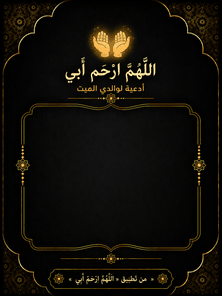
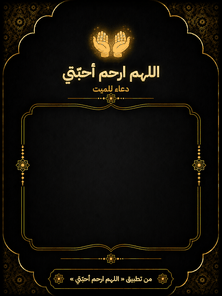
feat: rename app branding to Allahumma Irham Ahibbati
Global app name becomes « اللهم ارحم أحبّتي » with the descriptor
« دعاء للميت ». Per-relative personalisation (PersonType,
DuaPersonalizer, duas.json) is unchanged, and technical identifiers
(com.joumane.allahomairhamabi, /allahomairhamabi/) are untouched.

- AppBranding: single source for app name, descriptor and share
  attribution suffix (Home, DuaReadScreen, Settings share text)
- Android app_name, neutral reminder toasts, pubspec description
- Premium share templates and thumbnails: title, subtitle and footer
  redrawn; dimensions and duaTextZone unchanged
- Branding guard tests (test/app_branding_test.dart)
- Living docs: ETAT_CONSOLIDE_UI_UX, identity spec

diff --git a/Spec Identite Rahma.dc.html b/Spec Identite Rahma.dc.html
@@ -19,9 +19,9 @@ a{color:#0F7A45;}a:hover{color:#0A5C34;}
 <main style="max-width:940px;margin:0 auto;padding:56px 28px 96px;font-family:'IBM Plex Sans',sans-serif;font-size:15px;line-height:1.6;display:flex;flex-direction:column;gap:56px;">
 
 <header style="display:flex;flex-direction:column;gap:14px;border-bottom:1px solid #DDD5C0;padding-bottom:32px;">
-  <div style="font-family:'IBM Plex Mono',monospace;font-size:12px;letter-spacing:.08em;text-transform:uppercase;color:#5A6259;">Rahma · Spécification identité v1.0 · 28/09/2026</div>
+  <div style="font-family:'IBM Plex Mono',monospace;font-size:12px;letter-spacing:.08em;text-transform:uppercase;color:#5A6259;">Rahma · Spécification identité v1.1 · 30/09/2026 (nom : LOT RENAMING)</div>
   <h1 style="margin:0;font-size:36px;line-height:1.15;font-weight:600;letter-spacing:-.01em;text-wrap:balance;">Icône, logo et splash — analyse de la référence et spécification</h1>
-  <div style="font-family:'Lateef',serif;font-size:40px;line-height:1.2;color:#0F7A45;direction:rtl;text-align:right;">اللهم ارحم أبي</div>
+  <div style="font-family:'Lateef',serif;font-size:40px;line-height:1.2;color:#0F7A45;direction:rtl;text-align:right;">اللهم ارحم أحبّتي</div>
   <p style="margin:0;max-width:680px;color:#3C463F;text-wrap:pretty;">Critère n°1 : un nouvel utilisateur comprend immédiatement « deux mains levées pour faire une douaa ». Aucune nouvelle métaphore : la silhouette de la référence est conservée, puis corrigée pour la lisibilité et les contraintes des plateformes.</p>
 </header>
 
@@ -254,7 +254,7 @@ a{color:#0F7A45;}a:hover{color:#0A5C34;}
     <li>Déclinaisons : Émeraude #0F7A45 (fonds clairs) · Ivoire #F4EDD8 (fonds verts / sombres, p. ex. #0A5C34) · Noir #1F2A23 (impression 1 couleur).</li>
     <li>Zone de protection : 0,25 W sur les quatre côtés. Taille minimale : 24 px (version Petite taille sous 64 px).</li>
     <li>Interdits : recolorer en dégradé, contour, ombre, rotation, déformation, placer sur une photo chargée.</li>
-    <li>Lockup (site, partage) : logo + « اللهم ارحم أبي » en Lateef, à droite (RTL), hauteur de texte = 0,35 H, espacement 0,2 W.</li>
+    <li>Lockup (site, partage) : logo + « اللهم ارحم أحبّتي » en Lateef, à droite (RTL), hauteur de texte = 0,35 H, espacement 0,2 W.</li>
   </ul>
 </section>
 
@@ -263,7 +263,7 @@ a{color:#0F7A45;}a:hover{color:#0A5C34;}
   <p style="margin:0;padding:14px 16px;background:#E6EDDA;color:#1F2A23;">Contrainte : depuis Android 12, le splash système n'accepte qu'une icône centrée (288 dp, contenu dans un cercle de 192 dp) sur une couleur unie. Paysage, architecture et texte ne peuvent pas y figurer. Le splash se fait donc en deux temps.</p>
   <div style="display:grid;grid-template-columns:repeat(auto-fit,minmax(260px,1fr));gap:16px;">
     <div style="border:1px solid #DDD5C0;padding:14px;display:flex;flex-direction:column;gap:6px;background:#FFFDF7;"><strong>C1 · Splash système</strong><span style="font-size:14px;">Fond #F4EDD8, logo Émeraude (splash_logo.png, W = 52 %). Identique à l'icône : transition sans rupture. Mode sombre : fond #0A5C34, logo Ivoire.</span></div>
-    <div style="border:1px solid #DDD5C0;padding:14px;display:flex;flex-direction:column;gap:6px;background:#FFFDF7;"><strong>C2 · Écran de marque Flutter</strong><span style="font-size:14px;">1,2 à 1,8 s, puis fondu vers l'accueil. Mains W = 44 % de la largeur écran, centrées à 42 % de la hauteur. Sous les mains : « اللهم ارحم أبي » en Lateef, #0F7A45, 44 sp. Décor en bas du tiers inférieur : ligne d'horizon et arcs très discrets en #E6EDDA, filet or #B8860B à 40 % d'opacité maximum. Le décor ne dépasse jamais la base des mains.</span></div>
+    <div style="border:1px solid #DDD5C0;padding:14px;display:flex;flex-direction:column;gap:6px;background:#FFFDF7;"><strong>C2 · Écran de marque Flutter</strong><span style="font-size:14px;">1,2 à 1,8 s, puis fondu vers l'accueil. Mains W = 44 % de la largeur écran, centrées à 42 % de la hauteur. Sous les mains : « اللهم ارحم أحبّتي » en Lateef, #0F7A45, 44 sp. Décor en bas du tiers inférieur : ligne d'horizon et arcs très discrets en #E6EDDA, filet or #B8860B à 40 % d'opacité maximum. Le décor ne dépasse jamais la base des mains.</span></div>
   </div>
   <pre style="margin:0;padding:16px;background:#1F2A23;color:#F4EDD8;font-family:'IBM Plex Mono',monospace;font-size:13px;line-height:1.55;overflow:auto;">flutter_native_splash:
   color: "#F4EDD8"

diff --git a/test/app_branding_test.dart b/test/app_branding_test.dart
@@ -1,0 +1,120 @@
+// LOT RENAMING — garde-fous du nom commercial « اللهم ارحم أحبّتي ».
+//
+// Détecte les oublis futurs sur les surfaces de branding (Home, signature
+// de partage, texte « مشاركة التطبيق », nom Android) sans toucher à la
+// personnalisation par proche, qui doit continuer à produire
+// « اللهم ارحم أبي / أمي … » dans le texte des douʿās.
+import 'dart:io';
+
+import 'package:flutter/material.dart';
+import 'package:flutter_test/flutter_test.dart';
+import 'package:shared_preferences/shared_preferences.dart';
+
+import 'package:test_1/app_branding.dart';
+import 'package:test_1/dua_personalizer.dart';
+import 'package:test_1/home_screen.dart';
+import 'package:test_1/settings_screen.dart';
+import 'package:test_1/widgets/app_bar.dart';
+
+/// Retire le tashkīl et le tatweel pour comparer sans tenir compte des
+/// diacritiques (« اللَّهُمَّ ارْحَمْ أَبِي » == « اللهم ارحم أبي »).
+String _stripDiacritics(String s) =>
+    s.replaceAll(RegExp('[ً-ْٰـ]'), '');
+
+final _oldBrand = RegExp(r'ارحم\s+[أاإ]بي');
+
+void main() {
+  group('AppBranding', () {
+    test('nom, descripteur et signature officiels', () {
+      expect(AppBranding.appName, 'اللهم ارحم أحبّتي');
+      expect(AppBranding.descriptor, 'دعاء للميت');
+      expect(AppBranding.shareAttributionSuffix,
+          '\n\n— من تطبيق اللهم ارحم أحبّتي —');
+    });
+
+    test('« مشاركة التطبيق » : nouveau nom, descripteur, lien Play inchangé',
+        () {
+      const text = SettingsScreen.shareAppText;
+      expect(text, startsWith('${AppBranding.appName}\n'));
+      expect(text, contains(AppBranding.descriptor));
+      expect(text, isNot(contains('لوالدي')));
+      expect(
+        text,
+        contains(
+            'https://play.google.com/store/apps/details?id=com.joumane.allahomairhamabi'),
+      );
+    });
+  });
+
+  testWidgets('titre du Home = nom commercial', (tester) async {
+    SharedPreferences.setMockInitialValues({});
+
+    await tester.pumpWidget(const MaterialApp(home: HomeScreen()));
+    await tester.pumpAndSettle();
+
+    final appBar = tester.widget<AppTopBar>(find.byType(AppTopBar));
+    expect(appBar.title, AppBranding.appName);
+  });
+
+  group('Android', () {
+    test('app_name = nom commercial, référencé par le manifeste', () {
+      final strings =
+          File('android/app/src/main/res/values/strings.xml').readAsStringSync();
+      expect(
+        strings,
+        contains('<string name="app_name">${AppBranding.appName}</string>'),
+      );
+
+      final manifest =
+          File('android/app/src/main/AndroidManifest.xml').readAsStringSync();
+      expect(manifest, contains('android:label="@string/app_name"'));
+      // Identifiant technique historique : inchangé par le rebranding.
+      expect(manifest, contains('package="com.joumane.allahomairhamabi"'));
+    });
+  });
+
+  test('ancien nom absent du code applicatif (hors douʿās personnalisées)', () {
+    final sources = Directory('lib')
+        .listSync(recursive: true)
+        .whereType<File>()
+        .where((f) => f.path.endsWith('.dart'))
+        .toList()
+      ..add(File('android/app/src/main/res/values/strings.xml'));
+
+    final offenders = <String>[
+      for (final f in sources)
+        if (_oldBrand.hasMatch(_stripDiacritics(f.readAsStringSync()))) f.path,
+    ];
+    expect(offenders, isEmpty);
+  });
+
+  group('personnalisation préservée', () {
+    test('père et mère restent personnalisés', () {
+      expect(
+        DuaPersonalizer.personalize(
+            'اللهم ارحم أبي', 'father', {'father': 'Youssef'}),
+        'اللهم ارحم أبي Youssef',
+      );
+      expect(
+        DuaPersonalizer.personalize(
+            'اللهم ارحم أمي', 'mother', {'mother': 'Fatima'}),
+        'اللهم ارحم أمي Fatima',
+      );
+    });
+
+    test('la signature n\'est jamais réécrite par la personnalisation', () {
+      const keys = [
+        'father', 'mother', 'parents', 'grandfather', 'grandmother',
+        'brother', 'sister', 'son', 'daughter', 'husband', 'wife',
+      ];
+      for (final k in keys) {
+        expect(
+          DuaPersonalizer.personalize(
+              AppBranding.shareAttributionSuffix, k, {k: 'X'}),
+          AppBranding.shareAttributionSuffix,
+          reason: k,
+        );
+      }
+    });
+  });
+}

diff --git a/lib/settings_screen.dart b/lib/settings_screen.dart
@@ -4,6 +4,7 @@ import 'package:provider/provider.dart';
 import 'package:share_plus/share_plus.dart';
 import 'package:url_launcher/url_launcher.dart';
 
+import 'app_branding.dart';
 import 'monetization/ad_free_hour_entry.dart';
 import 'monetization/privacy_options_entry.dart';
 import 'monetization/rewarded_wording.dart';
@@ -28,22 +29,23 @@ import 'widgets/rewarded_confirmation_sheet.dart';
 class SettingsScreen extends StatefulWidget {
   const SettingsScreen({super.key});
 
+  /// Texte de partage validé (LOT 3.O — « مشاركة التطبيق »). Mécanisme natif
+  /// uniquement (`Share.share`), aucune logique spécifique à une app tierce
+  /// (remplace l'ancienne intégration WhatsApp de `home_screen.dart`,
+  /// supprimée par ce lot). Exposé pour `test/app_branding_test.dart`.
+  @visibleForTesting
+  static const shareAppText =
+      '${AppBranding.appName}\n'
+      '${AppBranding.descriptor} 🤍\n'
+      '\n'
+      'شارك الأجر مع من تحب:\n'
+      'https://play.google.com/store/apps/details?id=com.joumane.allahomairhamabi';
+
   @override
   State<SettingsScreen> createState() => _SettingsScreenState();
 }
 
 class _SettingsScreenState extends State<SettingsScreen> {
-  /// Texte de partage validé (LOT 3.O — « مشاركة التطبيق »). Mécanisme natif
-  /// uniquement (`Share.share`), aucune logique spécifique à une app tierce
-  /// (remplace l'ancienne intégration WhatsApp de `home_screen.dart`,
-  /// supprimée par ce lot).
-  static const _shareAppText =
-      'اللَّهُمَّ ارْحَمْ أَبِي\n'
-      'تطبيق أدعية لوالدي الميت 🤍\n'
-      '\n'
-      'شارك الأجر مع من تحب:\n'
-      'https://play.google.com/store/apps/details?id=com.joumane.allahomairhamabi';
-
   String _selectedTheme = 'system';
 
   bool _enableMorning = true;
@@ -278,7 +280,7 @@ class _SettingsScreenState extends State<SettingsScreen> {
   /// dou'a — `home_screen.dart`, `dua_read_screen.dart`), aucune dépendance
   /// nouvelle, aucune logique propre à une app tierce.
   Future<void> _shareApp() async {
-    await Share.share(_shareAppText);
+    await Share.share(SettingsScreen.shareAppText);
   }
 
   /// « خيارات الخصوصية » (LOT 5.E) — ouvre le formulaire UMP d'options de

diff --git a/lib/home_screen.dart b/lib/home_screen.dart
@@ -7,6 +7,7 @@ import 'package:flutter/services.dart'; // Clipboard + Haptics
 import 'package:flutter/rendering.dart'; // RenderRepaintBoundary
 import 'package:share_plus/share_plus.dart';
 
+import 'app_branding.dart';
 import 'dua_repository.dart';
 import 'models/dua.dart';
 import 'monetization/interstitial_ad_controller.dart';
@@ -59,8 +60,7 @@ class _HomeScreenState extends State<HomeScreen> with TickerProviderStateMixin {
   String? _emptyStateMessage;
 
   //Suffixe des textes copiés ou partagés
-  static const String _ATTR_SUFFIX_AR =
-      '\n\n— من تطبيق اللَّهُمَّ ارْحَمْ أَبِي —';
+  static const String _ATTR_SUFFIX_AR = AppBranding.shareAttributionSuffix;
 
   // ===== Filtres =====
   // زيارة القبر a son propre écran dédié (LOT 3.F) — plus jamais atteint via
@@ -1384,7 +1384,7 @@ class _HomeScreenState extends State<HomeScreen> with TickerProviderStateMixin {
         children: [
           Scaffold(
             appBar: AppTopBar(
-              title: 'اللَّهُمَّ ارْحَمْ أَبِي',
+              title: AppBranding.appName,
               height: 56,
               titleStyle:
                   AppTypography.display.copyWith(fontSize: 25, color: appBarForeground),

diff --git a/lib/app_branding.dart b/lib/app_branding.dart
@@ -1,0 +1,23 @@
+// lib/app_branding.dart
+//
+// Identité globale de l'application (LOT RENAMING) — source unique du nom
+// commercial affiché. À ne pas confondre avec la personnalisation par
+// proche (`PersonType`, `DuaPersonalizer`) : le douʿā personnalisé pour le
+// père, la mère, etc. reste produit dynamiquement dans le texte des douʿās.
+//
+// Le nom Android sous l'icône vit dans
+// `android/app/src/main/res/values/strings.xml` (`app_name`) et doit rester
+// identique à [AppBranding.appName] (vérifié par test/app_branding_test.dart).
+
+class AppBranding {
+  AppBranding._();
+
+  /// Nom commercial officiel (forme canonique, shadda sur « بّ » uniquement).
+  static const String appName = 'اللهم ارحم أحبّتي';
+
+  /// Descripteur officiel du produit.
+  static const String descriptor = 'دعاء للميت';
+
+  /// Signature ajoutée aux textes de douʿā copiés ou partagés.
+  static const String shareAttributionSuffix = '\n\n— من تطبيق $appName —';
+}

diff --git a/lib/screens/dua_read_screen.dart b/lib/screens/dua_read_screen.dart
@@ -2,6 +2,7 @@ import 'package:flutter/material.dart';
 import 'package:flutter/services.dart'; // Clipboard, Haptics
 import 'package:share_plus/share_plus.dart';
 
+import '../app_branding.dart';
 import '../dua_repository.dart';
 import '../models/dua.dart';
 import '../theme/app_colors.dart';
@@ -36,9 +37,8 @@ class _DuaReadScreenState extends State<DuaReadScreen>
     with SingleTickerProviderStateMixin {
   final _repo = DuaRepository();
 
-  // Même suffixe que HOME/Favoris — dupliqué localement (même motif déjà
-  // en place dans le projet, aucune constante partagée existante).
-  static const String _attrSuffix = '\n\n— من تطبيق اللَّهُمَّ ارْحَمْ أَبِي —';
+  // Même suffixe que HOME — source unique : `AppBranding`.
+  static const String _attrSuffix = AppBranding.shareAttributionSuffix;
 
   // Un seul Future pour tout l'écran (§B.8) — douʿā et statut favori
   // chargés ensemble, un seul FutureBuilder consomme le résultat.

diff --git a/lib/main.dart b/lib/main.dart
@@ -82,7 +82,7 @@ Future<void> main() async {
       case 'skip':
       // 👉 Retour visuel clair côté UI (§P1-F : toast DS, plus de SnackBar
       // Material brut) — même message.
-        _showToastFromRoot('تم تجاهل التذكير — نسأل الله أن يرحم والدك.');
+        _showToastFromRoot('تم تجاهل التذكير — نسأل الله أن يرحم موتانا.');
         break;
 
       default: // Tap sur le corps de la notif
@@ -209,7 +209,7 @@ Future<void> _consumePendingNotificationAction() async {
             ?.pushNamedAndRemoveUntil('/home', (route) => false);
         break;
       case 'skip':
-        _showToastFromRoot('نسأل الله أن يرحم والدك… سنذكّرك لاحقًا إن شاء الله.');
+        _showToastFromRoot('نسأل الله أن يرحم موتانا… سنذكّرك لاحقًا إن شاء الله.');
         break;
       default:
         navigatorKey.currentState

diff --git a/lib/premium_templates.dart b/lib/premium_templates.dart
@@ -35,6 +35,9 @@ extension PremiumTemplateX on PremiumTemplate {
   ///
   /// ⚠ dark_luxe.png est un asset déjà validé visuellement : ne jamais le
   /// régénérer, retoucher ni modifier ses dimensions/zone (V1.2 Phase 11).
+  /// Exception LOT RENAMING : dans les 3 templates, seuls le titre, le
+  /// sous-titre et le footer (« اللهم ارحم أحبّتي » / « دعاء للميت ») ont été
+  /// redessinés ; dimensions, zone du dou'a et décor sont inchangés.
   String get fixedTemplateAsset {
     switch (this) {
       case PremiumTemplate.darkLuxe:

diff --git a/docs/ui_ux/ETAT_CONSOLIDE_UI_UX.md b/docs/ui_ux/ETAT_CONSOLIDE_UI_UX.md
@@ -1,6 +1,6 @@
 # État consolidé du travail UI/UX — document de continuité
 
-**Application :** اللَّهُمَّ ارْحَمْ أَبِي (Flutter, RTL, arabe)
+**Application :** اللهم ارحم أحبّتي — دعاء للميت (Flutter, RTL, arabe). Ancien nom jusqu'au LOT RENAMING (30/09/2026) : اللَّهُمَّ ارْحَمْ أَبِي.
 **Dépôt :** rahmaapps/allahomairhamabi — branche `github-migration` (remote `github-app`)
 **Date de consolidation initiale :** 2 septembre 2026
 **Dernière synchronisation avec le code réel :** 9 septembre 2026 (LOT 3.N)
@@ -47,7 +47,7 @@ Pas de barre de navigation persistante. Le HOME reste le hub ; les destinations 
 **AppBar du HOME, ordre définitif (flux RTL) :**
 
 ```
-اللهم ارحم أبي        ⌕    ♡    ⤴    ⋮
+اللهم ارحم أحبّتي     ⌕    ♡    ⤴    ⋮
                    بحث  مفضلة  partage  menu
 ```
 
@@ -93,7 +93,7 @@ HOME (hub, non scrollable)
 ### Structure verticale — 6 strates, dont 4 seulement dans le `body`
 
 ```
-AppBar 56 dp        اللهم ارحم أبي   ⌕ ♡ ⤴ ⋮        hors body
+AppBar 56 dp        اللهم ارحم أحبّتي ⌕ ♡ ⤴ ⋮        hors body
 bottom: 44 dp       دعاء زيارة القبر · للقراءة عند الزيارة  ‹   hors body
 ────────────────────── padding 16 ──────────────────────
 Chips catégories    44 dp                              N2
@@ -271,7 +271,7 @@ Hauteur 48 · rayon 12 · Plex 16/600 · pressé = couleur pressée **+ `scale .
 
 | Zone | Contenu |
 |---|---|
-| **A — Identité** | HOME : `اللهم ارحم أبي` Lateef 25 `onPrimary`. Écrans secondaires : `→` + titre Plex 16/600, h 52. |
+| **A — Identité** | HOME : `اللهم ارحم أحبّتي` (`AppBranding.appName`) Lateef 25 `onPrimary`. Écrans secondaires : `→` + titre Plex 16/600, h 52. |
 | **B — Actions** | `⌕` · `♡` · `⤴` · `⋮`. Icônes 24 px, zone 48. |
 | **C — `bottom:`** | Bandeau visite — **HOME uniquement**, h 44. |
 
@@ -498,12 +498,12 @@ Aucun prototype interactif n'a été produit. Les trois animations signalées «
 
 Ne pas rouvrir lors de l'implémentation :
 
-1. **L'application reste « اللَّهُمَّ ارْحَمْ أَبِي ».** Elle permet néanmoins plusieurs proches décédés et 11 `PersonType` — décision produit non remise en cause.
+1. **L'application s'appelle désormais « اللهم ارحم أحبّتي »** (descripteur : « دعاء للميت ») — décision produit du LOT RENAMING (30/09/2026), qui remplace l'ancienne décision « L'application reste « اللَّهُمَّ ارْحَمْ أَبِي » ». Le nom global est l'identité de l'application ; la personnalisation par proche (11 `PersonType`, `DuaPersonalizer`) reste inchangée et continue de produire « اللهم ارحم أبي / أمي … » dans le texte des douʿās. Identifiants techniques (`com.joumane.allahomairhamabi`, URL `/allahomairhamabi/`) inchangés.
 2. **Aucune refonte générique.** Toutes les phases appliquent les tokens de la Phase 2 sans en inventer. Plusieurs phases sont explicitement « aucun composant nouveau ».
 3. **Fonctionnalités Flutter existantes préservées.** L'architecture de données, les 48 tests et l'architecture de rendu Premium de la Phase 11 (`duaTextZone`, `duaTextColor`, `fitSinglePage()`, `ClipRect`) sont **conservés**.
 4. **« دعاء زيارة القبر » n'est pas une catégorie ordinaire** : bandeau nommé + écran plein, jamais une chip, jamais un onglet.
 5. **Son mode de lecture spécifique est préservé** : lecture intégrale, scroll vertical interne, **aucune action** (ni copie, ni partage, ni favori, ni « دعاء آخر »). Ne pas les réintroduire au motif que les autres écrans les ont.
-6. **Les 3 templates Premium ne sont pas redessinés.** Dark Luxe en particulier. Seule leur intégration UX est spécifiée ; les vignettes sont des aperçus du rendu existant.
+6. **Les 3 templates Premium ne sont pas redessinés.** Dark Luxe en particulier. Seule leur intégration UX est spécifiée ; les vignettes sont des aperçus du rendu existant. Exception LOT RENAMING : seuls le titre, le sous-titre (« دعاء للميت ») et le footer imprimés dans les PNG ont été remplacés par le nouveau nom ; décor, dimensions et `duaTextZone` inchangés.
 7. **Une seule image générée lors du partage**, via le mécanisme natif de la plateforme. Aucun écran, dialogue ou animation ajouté ; retour sans perte d'état.
 8. **`e2` reste le privilège du contenu sacré.** Aucun autre écran ne l'emprunte.
 9. **Lateef est réservé au sacré** (+ titre de l'app + heures). Aucune troisième police.
